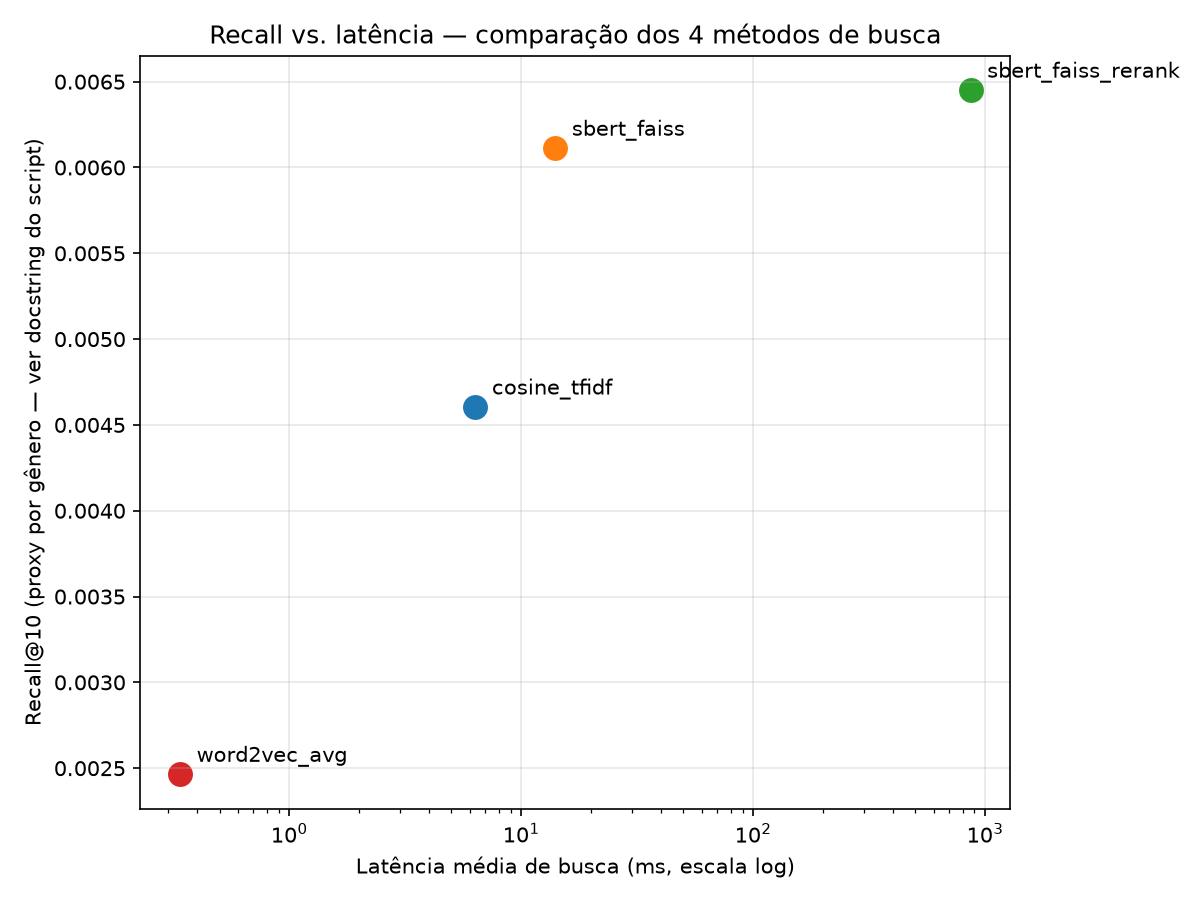
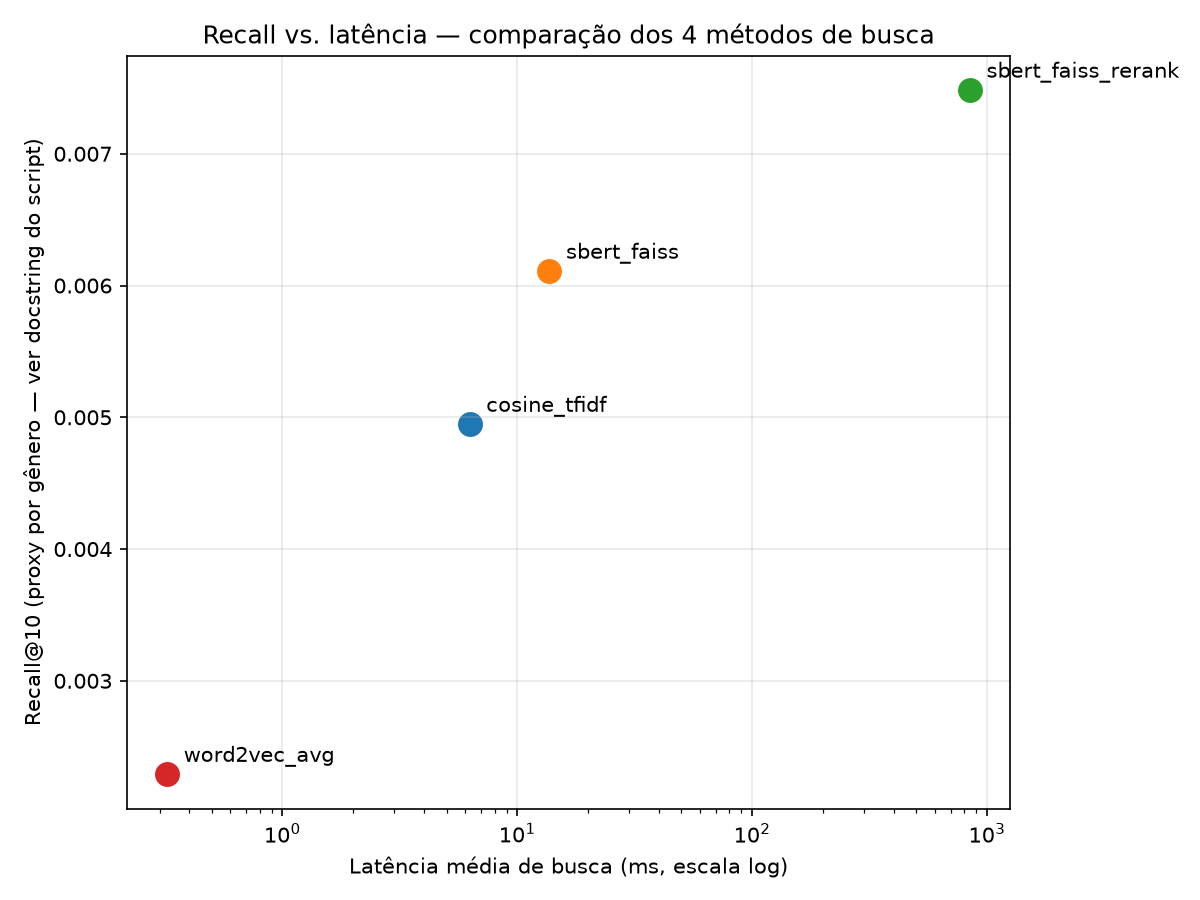
investiga recall baixo no benchmark: confirma que não é bug (teto matemático do recall@10 com conjunto relevante grande) e amplia sinônimos de gênero na curadoria (Caper story, Whodunit, Anti-war film, Creature Film)

diff --git a/scripts/benchmark_all_methods.py b/scripts/benchmark_all_methods.py
@@ -30,11 +30,40 @@ persegue pessoas na floresta à noite"). Fica registrado aqui como limitação
 conhecida — uma melhoria futura seria o grupo montar um gabarito de verdade,
 mesmo que pequeno (ex: 10-20 filmes julgados manualmente por query).
 
-Como os conjuntos "relevantes por gênero" são grandes (centenas a milhares de
-filmes por query) e cada método só retorna top_k=10, os valores de recall@10
-são pequenos em valor absoluto pra todos os métodos — isso é esperado, o que
-importa pra comparação é a diferença RELATIVA entre os métodos, não o valor
-absoluto.
+Por que os valores de recall@10 são tão baixos (0.2%-2%, não um bug)
+---------------------------------------------------------------------
+Investigado explicitamente (tipos de dado, normalização de string, tamanho
+do conjunto "relevante" por query, aplicação do top_k) — o código está
+correto. O valor absoluto baixo é uma CONSEQUÊNCIA MATEMÁTICA inevitável da
+definição de recall@10 quando o conjunto "relevante" (por gênero) é grande:
+
+    recall@10 = (acertos nos 10 retornados) / (total de filmes relevantes)
+
+Se uma query tem 6000 filmes com gênero batendo (ex: "a detective
+investigates a murder in the city", que casa com Crime Fiction/Mystery/
+Detective fiction/Crime Thriller/Whodunit — gêneros comuns), o recall@10
+MÁXIMO POSSÍVEL — mesmo se os 10 resultados fossem todos perfeitos — é
+10/6000 ≈ 0.17%. Já pra "a group plans a heist..." (só ~150 filmes com
+gênero Heist/Caper story), o teto é 10/150 ≈ 6.7%. Essa diferença de teto
+entre queries é a maior responsável pela variação nos números, muito mais
+que a qualidade de cada método de busca — por isso os valores absolutos são
+pequenos e heterogêneos, e a comparação relevante é entre métodos NA MESMA
+query, não a média bruta entre queries diferentes.
+
+Exemplo concreto de imprecisão do proxy (não um bug de código): pra query
+"a group plans a heist to steal something valuable", o Método 1 (TF-IDF)
+encontra "Foolproof" como resultado nº2 (score 0.277) — um filme sobre um
+grupo de amigos que criam planos pra assaltar alvos, um match semântico
+quase perfeito com a pergunta. Mas "Foolproof" tem gênero `["Thriller",
+"Crime Fiction", "Caper story", ...]` no dataset — inicialmente nosso proxy
+só considerava o gênero exato "Heist" como relevante, então esse acerto
+óbvio contava como "erro" na métrica. Ampliamos o conjunto de gêneros
+aceitos por query (`QUERY_RELEVANT_GENRES` abaixo) incluindo sinônimos de
+gênero próximos (ex: "Caper story" pra heist, "Whodunit" pra detetive,
+"Anti-war film"/"Combat Films" pra guerra, "Creature Film" pra monstro) —
+isso reduz esse tipo de falso-negativo, mas não elimina o problema de fundo:
+qualquer taxonomia de gênero é uma aproximação grosseira de "relevância
+semântica de verdade", e por isso o recall aqui continua sendo só um proxy.
 """
 
 from __future__ import annotations
@@ -69,11 +98,11 @@ N_LATENCY_REPEATS = 10
 # proxy de relevância por gênero (ver docstring acima) -- gêneros conferidos
 # contra o vocabulário real de movies.parquet
 QUERY_RELEVANT_GENRES = {
-    "a detective investigates a murder in the city": {"Crime Fiction", "Mystery", "Detective fiction", "Crime Thriller"},
+    "a detective investigates a murder in the city": {"Crime Fiction", "Mystery", "Detective fiction", "Crime Thriller", "Whodunit"},
     "a robot falls in love with a human": {"Science Fiction"},
-    "soldiers survive a brutal war": {"War film"},
-    "a group plans a heist to steal something valuable": {"Heist"},
-    "a monster hunts people in the woods at night": {"Horror", "Monster movie", "Monster"},
+    "soldiers survive a brutal war": {"War film", "Anti-war film", "Anti-war", "Combat Films"},
+    "a group plans a heist to steal something valuable": {"Heist", "Caper story"},
+    "a monster hunts people in the woods at night": {"Horror", "Monster movie", "Monster", "Creature Film"},
 }
 
 